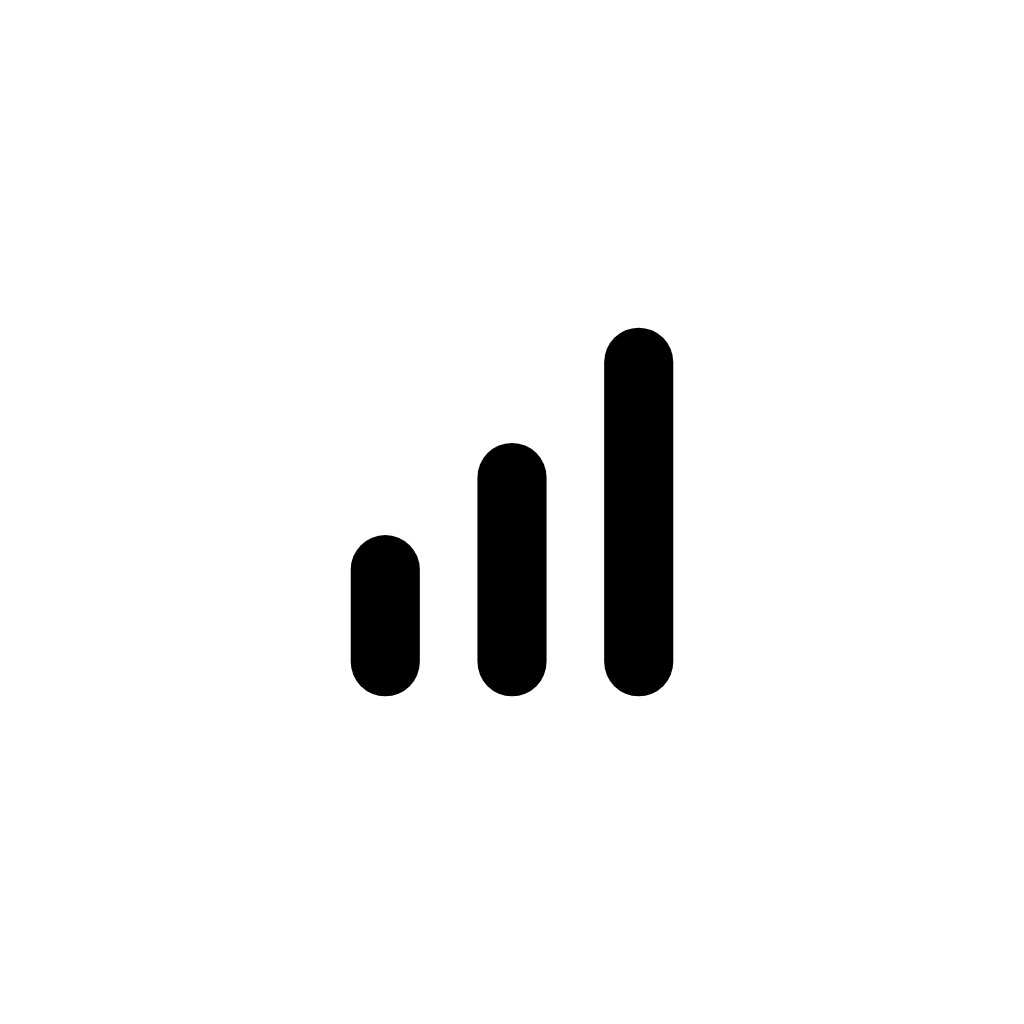
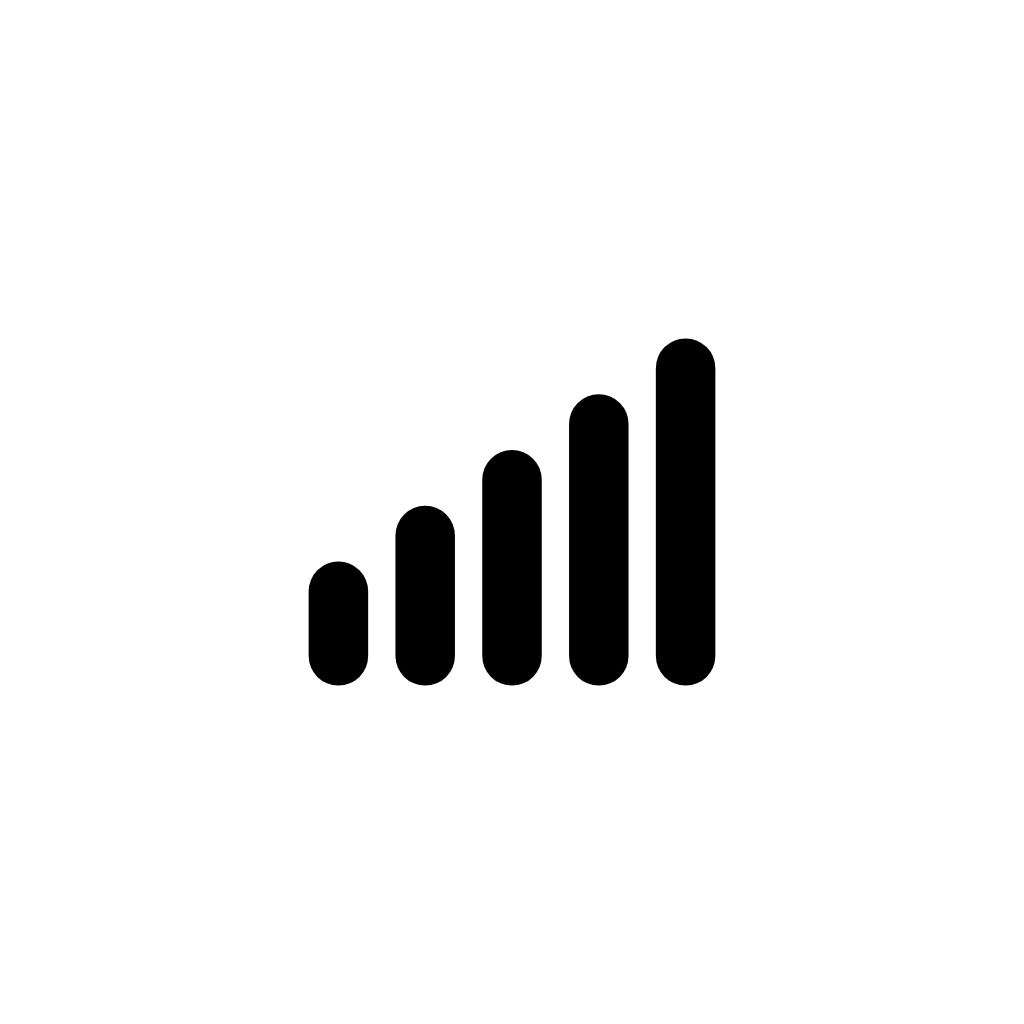
ロゴとアプリのアイコンを5本・5色の目盛りに
参考の積み上げグラフの5色（赤・黄・水色・青・紫）を、高さの上がる5本の
目盛りに1色ずつ。左上のロゴとアプリのアイコン（iOS・Android・スプラッシュ・
favicon）を同じ形にそろえる。

Claude-Session: https://claude.ai/code/session_01PvpTMF8how1FmECoesUyAb

Changed region(s): [[0.2812, 0.3125, 0.7188, 0.6875]]

diff --git a/inchly-app/src/ui/Brand.tsx b/inchly-app/src/ui/Brand.tsx
@@ -10,18 +10,19 @@ import { timed } from './motion';
 // Inch-ly: "a little at a time". The brand's one motif is the measuring tape —
 // the same ticks as the timer's ruler — used for the wordmark and for today's progress.
 
-/** The brand's color: the charts' indigo (英語's), the one that catches the eye in them. The ticks and the app icon are drawn in it. */
-export const BRAND = '#5856D6';
+/** The brand's five colors (red, yellow, light blue, blue, purple), one per tick, low to high; the app icon is the same five ticks. */
+export const BRAND_TICKS = ['#E5484D', '#F2C46D', '#9AB8DB', '#5B8DEF', '#9D7BF5'];
+const TICK_H = [5.7, 8.3, 10.9, 13.4, 16];
 
-/** Wordmark: three ruler ticks of rising height (in the brand's indigo), then "inchly". */
+/** Wordmark: five ticks of rising height (in the brand's five colors, or all in `color`), then "inchly". */
 export function Wordmark({ size = 21, color }: { size?: number; color?: string }) {
   const t = useT();
   const u = size / 21;
   return (
     <View style={{ flexDirection: 'row', alignItems: 'flex-end', gap: 7 * u }} accessible accessibilityLabel="Inchly">
-      <View style={{ flexDirection: 'row', alignItems: 'flex-end', gap: 2.5 * u, marginBottom: 4 * u }}>
-        {[7, 11, 16].map((h, i) => (
-          <View key={i} style={{ width: 3 * u, height: h * u, borderRadius: 1.5 * u, backgroundColor: color ?? BRAND }} />
+      <View style={{ flexDirection: 'row', alignItems: 'flex-end', gap: 1.5 * u, marginBottom: 4 * u }}>
+        {TICK_H.map((h, i) => (
+          <View key={i} style={{ width: 2.7 * u, height: h * u, borderRadius: 1.35 * u, backgroundColor: color ?? BRAND_TICKS[i] }} />
         ))}
       </View>
       <Txt style={{ fontFamily: font.rounded, fontWeight: '800', fontSize: size, lineHeight: size * 1.15, letterSpacing: -0.03 * size, color: color ?? t.ink }}>inchly</Txt>

diff --git a/inchly-app/README.md b/inchly-app/README.md
@@ -93,7 +93,7 @@ Expo Go が対応する SDK とプロジェクトの SDK（いまは 58）が合
 アプリの地は、やわらかい灰色（`#ECEDF0`）に、上から光がさすような白いもや（`Chrome.Screen` の `Haze`）。少し透けて見えるような軽さにしている。背景（鯉の池など）を選ぶと、地の代わりにそれがすべてのページのうしろで動き、カードはすりガラスになる（下の「背景」）。
 
 - **科目の絵**: 科目は頭文字ではなく絵で出す（`src/ui/SubjectGlyph.tsx`）。化学＝フラスコ、物理＝原子、生物＝葉、地学＝山、数学＝π、英語＝吹き出しのA（リスニング＝ヘッドホン、英作文＝ペン）、国語＝開いた本（古文＝巻物、漢文＝筆）、世界史＝神殿、日本史＝鳥居、地理＝地図、政経・公共・倫理＝天秤、情報＝ノートパソコン。科目名から、なければ教科から決まり、どれにも当たらない科目は頭文字のまま。勉強バー・ホーム・科目と色・記録・タイマーのカードの表紙（大きく、うっすら）に出る
-- **アプリのアイコン**: 左上のロゴと同じ、高さの上がっていく3本の目盛り（7・11・16）を、グラフの紫（英語の色 `#5856D6`、`src/ui/Brand.tsx` の `BRAND`）で白地に。ロゴの目盛りも同じ紫。`assets/images/` の `icon.png`・Android の3枚（白い背景・目盛り・単色）・`splash-icon.png`・`favicon.png`
+- **アプリのアイコン**: 左上のロゴと同じ、高さの上がっていく5本の目盛りを白地に。色は1本ずつ 赤 `#E5484D`・黄 `#F2C46D`・水色 `#9AB8DB`・青 `#5B8DEF`・紫 `#9D7BF5`（参考にした積み上げグラフの5色。`src/ui/Brand.tsx` の `BRAND_TICKS`）。`assets/images/` の `icon.png`・Android の3枚（白い背景・目盛り・単色）・`splash-icon.png`・`favicon.png`
 
 - **フォント**: Apple のシステムフォント（英数字は SF Pro、日本語はヒラギノ角ゴ）。iPhone では何も読み込まずにそのまま使い、
   20pt 以上は SF Pro Display、それ未満は SF Pro Text に切り替わります。数字は等幅（tabular）で、カウンターが揺れません。
